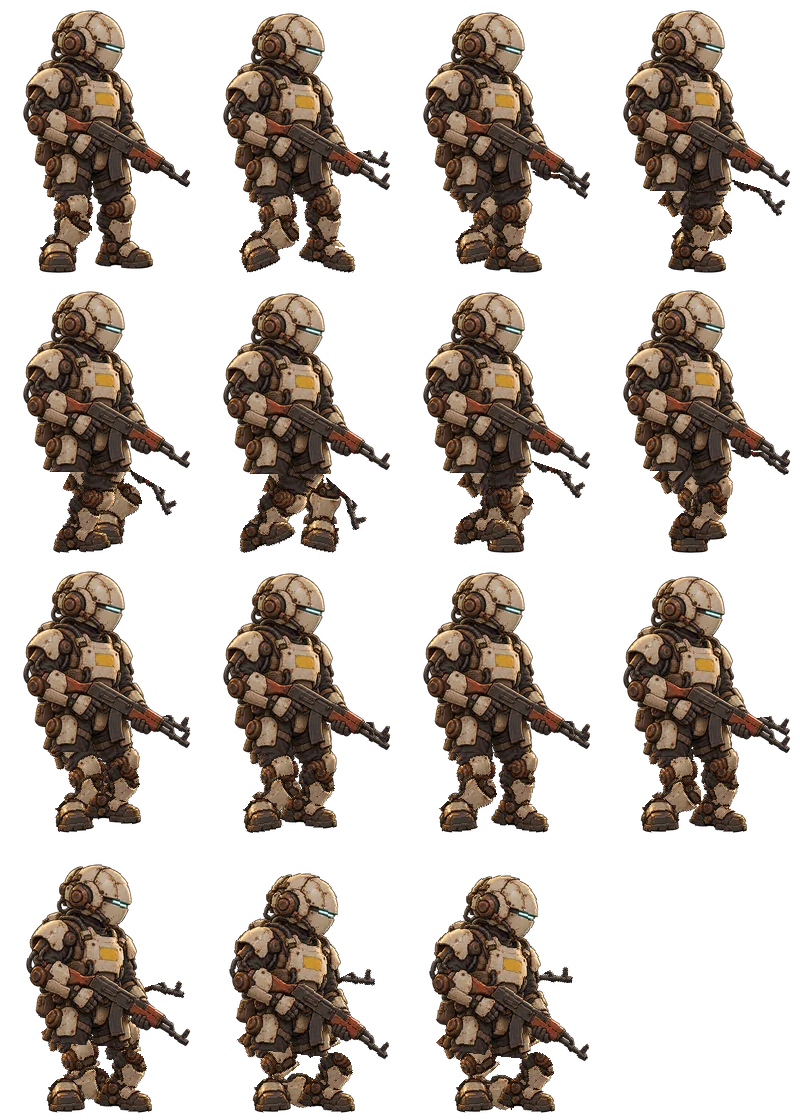
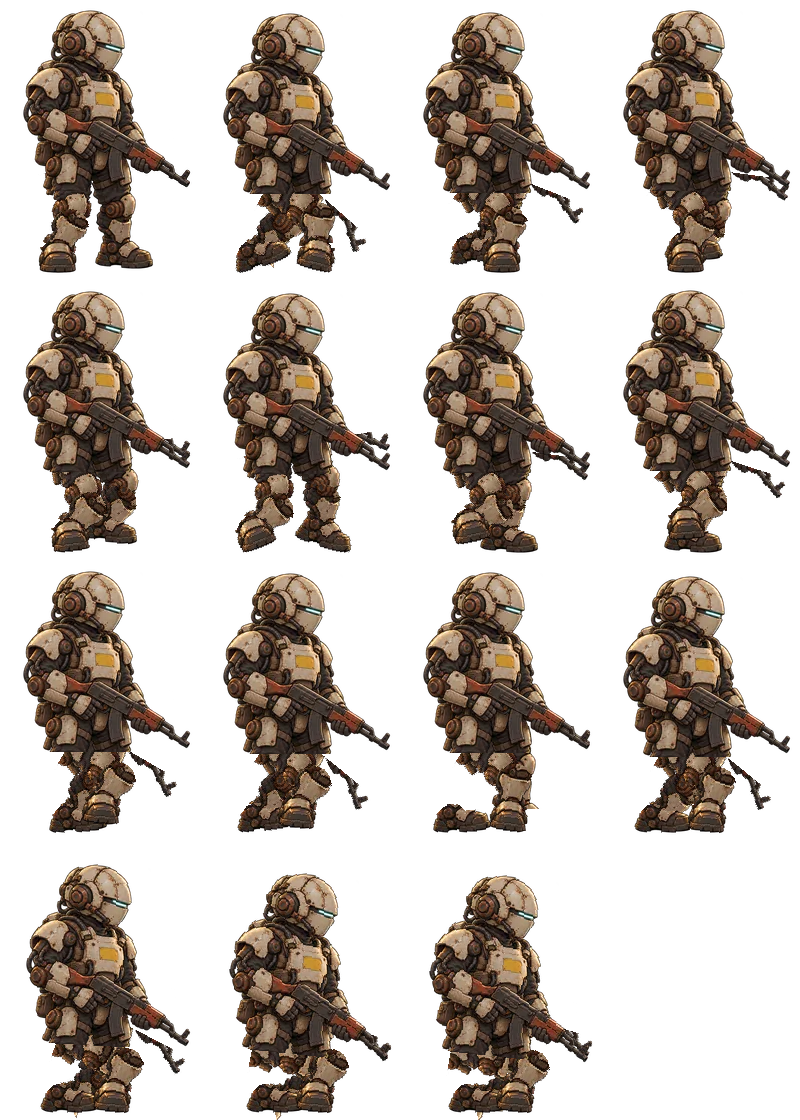
ABYSS DIVE v1.8.2: 歩行の前後レイヤーとストライド中心を原画に合わせ、歩行速度を310に、徒歩射撃と魚雷を長押し連射化
- 歩行の前後（遮蔽順）を原画の陰影から判定して入れ替え、ストライド中心を体の軸 x=180 へ移動（tools/suitrig.py）
- WALK_SPEED 250→310 論理px/s（歩調は時間ベースのまま、explore-rules.js）
- 徒歩スーツ射撃と潜航の通常魚雷をタップ1発・長押し連射に（ミサイル等は未変更）
- 版: sw-assets.js v11→v12 / gameVersion 1.8.1→1.8.2、?v= 更新
- テスト: node --test abyss-dive/tests/*.test.mjs 48件 全通過

diff --git a/abyss-dive/js/game.js b/abyss-dive/js/game.js
@@ -6,7 +6,7 @@
  * 停止・破棄までを自分で管理する（DOM の生成は呼び出し側の index.js が行う）。
  */
 
-import { createExplore } from './explore.js?v=9';
+import { createExplore } from './explore.js?v=10';
 
 export function createAbyssDive(opts) {
   'use strict';
@@ -274,6 +274,9 @@ export function createAbyssDive(opts) {
     wantMissile:false, wantDash:false, wantSonar:false, wantPause:false,
     wantDock:false,            // v1.6.0: 遺跡へ降りる／戻る（E・パッドA・画面ボタン）
     wantShoot:false,           // v1.8.0: 探索中の射撃（J/Z・画面ボタン。押した瞬間だけ）
+    fireMouseHeld:false,
+    fireHeld:false,            // v1.8.2: 魚雷の押しっぱなし連射（専用ボタン/左クリック/J/Z）
+    shootHeld:false,           // v1.8.2: 徒歩射撃の押しっぱなし連射（専用ボタン/J/Z）
     pad:{ x:0, action:false, actionEdge:false },   // v1.6.0: ゲームパッド
     stick:{ active:false, id:null, ox:0, oy:0, x:0, y:0, dx:0, dy:0, r:78 },
     ui:[],
@@ -306,12 +309,31 @@ export function createAbyssDive(opts) {
     else if (id === 'pause') Input.wantPause = true;
   }
 
+  function syncFireHold(){
+    const keys = Input.keys.KeyJ || Input.keys.KeyZ;
+    const touch = Object.values(Input.btnTouch).includes('fire');
+    Input.fireHeld = !G.exploreOn && G.state === 'play' && !!(keys || touch || Input.fireMouseHeld);
+    Input.shootHeld = G.exploreOn && !!(keys || touch);
+  }
+
+  function clearFireHold(){
+    Input.fireHeld = Input.shootHeld = Input.fireMouseHeld = false;
+    Input.fireQueued = Input.wantShoot = false;
+    delete Input.keys.KeyJ; delete Input.keys.KeyZ;
+    for (const id of Object.keys(Input.btnTouch)) if (Input.btnTouch[id] === 'fire') delete Input.btnTouch[id];
+  }
+
   /* --- keyboard ------------------------------------------------------- */
   on(window, 'keydown', e => {
-    if (e.repeat) { Input.keys[e.code] = true; return; }
+    if (e.repeat) return;
     Input.mode = 'mouse';
     Input.keys[e.code] = true;
-    if (e.code === 'KeyJ' || e.code === 'KeyZ') { if (G.exploreOn) Input.wantShoot = true; else Input.fireQueued = true; }
+    if (e.code === 'KeyJ' || e.code === 'KeyZ') {
+      if (G.exploreOn) Input.wantShoot = true;
+      else if (G.state === 'play') Input.fireQueued = true;
+      else delete Input.keys[e.code];
+      syncFireHold();
+    }
     if (e.code === 'KeyK' || e.code === 'KeyL') Input.wantMissile = true;
     if (e.code === 'Space') { Input.wantDash = true; e.preventDefault(); }
     if (e.code === 'ShiftLeft' || e.code === 'ShiftRight') Input.wantSonar = true;
@@ -320,8 +342,14 @@ export function createAbyssDive(opts) {
     if (e.code === 'KeyE' || e.code === 'Enter') Input.wantDock = true;   // v1.6.0: 降艇／調べる／戻る
     if (e.code === 'KeyR' && G.state === 'dead') startGame();
   });
-  on(window, 'keyup', e => { Input.keys[e.code] = false; });
-  on(window, 'blur', () => { Input.keys = {}; Input.stick.active = false; Input.stick.dx = Input.stick.dy = 0; });
+  on(window, 'keyup', e => {
+    Input.keys[e.code] = false;
+    /* v1.8.2: 射撃キーを離したらホールド解除（J/Z 両方を見て、片方だけ離しても続く） */
+    if (e.code === 'KeyJ' || e.code === 'KeyZ') {
+      syncFireHold();
+    }
+  });
+  on(window, 'blur', () => { Input.keys = {}; Input.stick.active = false; Input.stick.dx = Input.stick.dy = 0; clearFireHold(); });
 
   /* --- mouse ---------------------------------------------------------- */
   on(cvs, 'mousemove', e => {
@@ -337,11 +365,17 @@ export function createAbyssDive(opts) {
     Input.mx = p.x; Input.my = p.y;
     if (e.button === 0) {
       const b = btnAt(p.x, p.y);
-      if (b) { pressBtn(b.id); return; }
-      Input.fireQueued = true;      // セミオート: クリック1回につき魚雷1発
-      clickScreen();
+      if (G.state !== 'play') { clickScreen(); return; }
+      if (b) {
+        pressBtn(b.id);
+        if (b.id !== 'fire') return;
+      } else Input.fireQueued = true;
+      Input.fireMouseHeld = true;
+      syncFireHold();
     } else if (e.button === 2) { Input.wantMissile = true; }
   });
+  /* v1.8.2: キャンバス外で離してもホールドを解除する */
+  on(window, 'mouseup', e => { if (e.button === 0) { Input.fireMouseHeld = false; syncFireHold(); } });
   on(cvs, 'contextmenu', e => e.preventDefault());
 
   /* --- touch ---------------------------------------------------------- */
@@ -359,7 +393,13 @@ export function createAbyssDive(opts) {
         Input.btnTouch[t.identifier] = 'dock'; Input.wantDock = true; continue;
       }
       const b = btnAt(p.x, p.y);
-      if (b) { Input.btnTouch[t.identifier] = b.id; pressBtn(b.id); continue; }
+      if (b) {
+        Input.btnTouch[t.identifier] = b.id;
+        pressBtn(b.id);
+        /* v1.8.2: 「撃つ」ボタンは指を置いている間ホールド（他の指の解放では止めない） */
+        if (b.id === 'fire') syncFireHold();
+        continue;
+      }
       if (!Input.stick.active && p.x < VW * 0.66) {
         Input.stick.active = true; Input.stick.id = t.identifier;
         Input.stick.ox = p.x; Input.stick.oy = p.y;
@@ -394,7 +434,9 @@ export function createAbyssDive(opts) {
         Input.stick.active = false; Input.stick.id = null;
         Input.stick.dx = Input.stick.dy = 0;
       }
-      if (Input.btnTouch[t.identifier]) delete Input.btnTouch[t.identifier];
+      const id = Input.btnTouch[t.identifier];
+      if (id) delete Input.btnTouch[t.identifier];
+      if (id === 'fire') syncFireHold();
     }
     e.preventDefault();
   }
@@ -593,11 +635,11 @@ export function createAbyssDive(opts) {
     p.heat = clamp(p.heat + heatRate * dt, 0, 1);
     if (p.over && p.heat <= 0.18) p.over = false;
 
-    /* 魚雷はセミオート。押した瞬間の1発だけで、押しっぱなしでは連射しない */
-    if (Input.fireQueued) {
-      Input.fireQueued = false;
-      if (!p.over && p.fireCd <= 0) { p.fireCd = 0.075; fireTorpedo(p); }
-    }
+    /* 魚雷: 押した瞬間の1発＋押しっぱなし中は発射間隔ごとに連射（熱・過熱はそのまま効く）。
+       離した瞬間にホールドが切れるので、進行中の1発以外は新たに撃たない。 */
+    const wantFire = Input.fireQueued || Input.fireHeld;
+    Input.fireQueued = false;
+    if (wantFire && !p.over && p.fireCd <= 0) { p.fireCd = 0.075; fireTorpedo(p); }
     if (Input.wantMissile) { Input.wantMissile = false; fireMissile(p); }
 
     /* --- sonar --- */
@@ -3484,7 +3526,7 @@ export function createAbyssDive(opts) {
     G.score = 0; G.kills = 0; G.combo = 0; G.comboT = 0; G.bossKills = 0;
     G.genX = 0; G.nextBossAt = 8600; G.dist = 0; G.boss = null; G.spawnT = 1.0; G.genRuinX = 0;
     G.warnMsg = ''; G.warnT = 0; G.flash = 0; G.hurtFlash = 0; G.shake = 0; G.deathT = 0; G.inkT = 0;
-    Input.fireQueued = false;
+    clearFireHold();
     Input.wantMissile = Input.wantDash = Input.wantSonar = false;
     Input.stick.active = false; Input.stick.dx = Input.stick.dy = 0;
     /* v1.6.0: 探索の進捗もリセット（新しい潜航で遺物はまた未調査に戻る） */
@@ -3516,7 +3558,7 @@ export function createAbyssDive(opts) {
 
     if (Input.wantPause) {
       Input.wantPause = false;
-      if (G.state === 'play') G.state = 'pause';
+      if (G.state === 'play') { G.state = 'pause'; clearFireHold(); }
       else if (G.state === 'pause') G.state = 'play';
     }
 
@@ -3552,7 +3594,7 @@ export function createAbyssDive(opts) {
   function clearInputLatch(){
     Input.fireQueued = false;
     Input.wantMissile = Input.wantDash = Input.wantSonar = Input.wantPause = Input.wantDock = false;
-    Input.wantShoot = false;
+    clearFireHold();
     Input.stick.active = false; Input.stick.dx = 0; Input.stick.dy = 0;
     if (Input.pad) Input.pad.actionEdge = false;
   }

diff --git a/abyss-dive/js/explore.js b/abyss-dive/js/explore.js
@@ -11,13 +11,17 @@
  *   歩き出し・停止・遺物を調べる姿勢変化を追加し、J/Z・専用ボタンで
  *   「構え→発射→短い反動」の射撃（実際に弾＝曳光が出る）を足した。
  *   上半身は射撃ポーズを重ねるだけで、脚の接地・移動は止めない。
+ * v1.8.2:
+ *   歩く速さを 250→310 論理px/s（歩調は時間ベースのまま）。徒歩射撃はタップ=1発、
+ *   「撃つ」ボタン／J・Z を押し続けると既存の射撃サイクル完了ごとに連射する
+ *   （指IDごとに保持。離すと進行中の1発以外は撃たない）。
  * v1.8.1:
  *   歩行の位相は「歩いている時間」で進む（explore-rules 側。移動速度・距離は使わない）。
  *   脚の接地はアトラスのまま（接地中はブーツ底が水平）。このファイルの描画は変えていない。
  *
  * 座標は潜航と同じ 1280x720 論理解像度。walk のルールは explore-rules.js。
  */
-import { EXPLORE_WORLD as W, createExploreState, stepExplore, animView, firePhase } from './explore-rules.js?v=10';
+import { EXPLORE_WORLD as W, createExploreState, stepExplore, animView, firePhase } from './explore-rules.js?v=11';
 
 const TAU = Math.PI * 2;
 const clamp = (v, a, b) => (v < a ? a : v > b ? b : v);
@@ -155,7 +159,7 @@ export function createExplore(opts){
     const shoot = !!Input.wantShoot;
     Input.wantShoot = false;
 
-    const ev = stepExplore(st, { move, action, shoot }, dt);
+    const ev = stepExplore(st, { move, action, shoot, shootHold: !!Input.shootHeld }, dt);
     if (ev.survey !== null) onSurvey(ev.survey);
     if (ev.return) onReturn();
     if (ev.shoot) spawnShot();
@@ -605,8 +609,8 @@ export function createExplore(opts){
     ctx.fillStyle = 'rgba(175,220,230,0.82)';
     ctx.font = '14px "Yu Gothic UI","Hiragino Sans",sans-serif';
     ctx.fillText(Input.mode === 'touch'
-      ? '左をドラッグで移動 ／ 右下のボタンで撃つ・調べる・戻る'
-      : 'A・D ／ ←→ で移動    J・Z で撃つ    E で調べる・戻る   （パッド: スティック + A）', VW - 26, 62);
+      ? '左をドラッグで移動 ／ 右下のボタンで撃つ（長押しで連射）・調べる・戻る'
+      : 'A・D ／ ←→ で移動    J・Z で撃つ（長押しで連射）    E で調べる・戻る   （パッド: スティック + A）', VW - 26, 62);
 
     /* 対象プロンプト */
     if (st.near === 'relic'){
@@ -797,7 +801,8 @@ export function createExplore(opts){
     for (const touch of e.changedTouches){
       const p = toLogical(touch.clientX, touch.clientY);
       if (d2(p.x, p.y, f.x, f.y) < (f.r + 18) * (f.r + 18)){
-        Input.wantShoot = true;         // 1 タップ 1 発（押した瞬間だけ）
+        Input.wantShoot = true;         // 1 タップ 1 発（押した瞬間）
+        Input.shootHeld = true;         // v1.8.2: 指を置いている間はサイクルごとに連射
         Input.btnTouch[touch.identifier] = f.id;
         continue;
       }

diff --git a/abyss-dive/js/explore-rules.js b/abyss-dive/js/explore-rules.js
@@ -20,7 +20,7 @@ export const EXPLORE_WORLD = Object.freeze({
   GROUND_Y: 566,       // 床のライン。キャラの足元はここに固定する
   MIN_X: 130,          // 歩ける左端
   MAX_X: 2470,         // 歩ける右端
-  WALK_SPEED: 250,     // px/s（スティックはアナログで減速。歩調アニメとは連動しない）
+  WALK_SPEED: 310,     // px/s（v1.8.2: 250→310。340以上は将来の改造の余地。スティックはアナログで減速。歩調アニメとは連動しない）
   INTERACT_RANGE: 96,  // これ以内で「調べる／戻る」が有効
   SPAWN_X: 430,        // 降りた直後の立ち位置（入口のすぐ内側）
   EXIT_X: 250,         // 潜航へ戻るハッチ＝探索入口と同じ場所
@@ -116,10 +116,11 @@ export function stepExplore(st, input, dt, world = EXPLORE_WORLD){
   const ev = { survey: null, return: false, blocked: null, moved: false, shoot: false };
   const move = clamp(Number(input && input.move) || 0, -1, 1);
 
-  /* --- 射撃: 移動と同時に入力できる。1 押下 1 発（発射アニメ中は受け付けない） --- */
+  /* --- 射撃: 移動と同時に入力できる。タップ=1発。ホールド中は射撃サイクル完了ごとに連射 --- */
   st.fireT = Math.max(0, st.fireT - dt);
   if (st.fireT <= 0) st.fireArmed = true;
-  if (input && input.shoot && st.fireArmed){
+  const wantFire = !!(input && (input.shoot || input.shootHold));
+  if (wantFire && st.fireArmed){
     st.fireArmed = false;
     st.fireT = world.FIRE_T;
     ev.shoot = true;

diff --git a/abyss-dive/sw-assets.js b/abyss-dive/sw-assets.js
@@ -1,8 +1,8 @@
 // ABYSS DIVE — 深淵潜航 の Service Worker 用アセット一覧
 self.GAME_ASSETS = self.GAME_ASSETS || {};
 self.GAME_ASSETS['abyss-dive'] = {
-  version: 'v11',
-  gameVersion: '1.8.1',
+  version: 'v12',
+  gameVersion: '1.8.2',
   files: [
     'css/abyss-dive.css',
     'js/index.js',

diff --git a/abyss-dive/js/index.js b/abyss-dive/js/index.js
@@ -5,7 +5,7 @@
  */
 import { loadCss } from '../../common/js/load-css.js';
 import { storage } from '../../common/js/storage.js';
-import { createAbyssDive } from './game.js?v=11';
+import { createAbyssDive } from './game.js?v=12';
 
 const GAME_ID = 'abyss-dive';
 

diff --git a/abyss-dive/docs/CURRENT_WORK.md b/abyss-dive/docs/CURRENT_WORK.md
@@ -1,6 +1,17 @@
 # ABYSS DIVE — 現在地
 
-最終更新: 2026-11-22 / v1.8.1（`sw-assets.js` の `version: v11`）
+最終更新: 2026-11-22 / v1.8.2（`sw-assets.js` の `version: v12`）
+
+## v1.8.2 の確認状況
+- **歩行の前後（遮蔽順）を原画に合わせた**。手前の脚＝画像**左**（x<186）／奥の脚＝画像**右**と判定し直し（原画 `suit_idle` の陰影: 奥の脚が暗く、手前の脚と接する内側が最も暗い）、`tools/suitrig.py` の `leg_x` と `KNEE`/`ANKLE` を入れ替えた。`render_pose` は `far→near` の順に重ねるので**常に同じ手前の脚が上**（左右反転時も維持）。脚は足ごとに「もも→すね→ブーツ」を完全に合成してから奥→手前へ重ねる。
+- **ストライド中心を体の軸へ**。`CENTER_X` を 184 → **180**（原画の胴体/骨盤の縦軸。画像中央 192・ニュートラル時の足首座標 181.5 ではない）、股関節 `HIP` も 180。両足の歩幅はこの軸に対称に振れ、半周期で脚が交換される。腰の縦線・接地（足裏/踵）・各アンカー（idle/walk/survey/shoot）は動かしていない。
+- **歩く速さ 250 → 310 論理px/s**（`WALK_SPEED`）。歩調は**時間ベースのまま**（`WALK_CYCLE_T=0.90s`）、スティックのアナログ減速もそのまま。340 以上は将来の「改造」の余地（改造システムは未実装）。
+- **徒歩射撃はタップ=1発・長押し=連射**。`stepExplore` の `shootHold` で、専用「撃つ」ボタン／J・Z を押している間は**既存の射撃サイクル（0.34s）完了ごと**に連射。離すと進行中の1発以外は撃たない。
+- **潜航の通常魚雷も同じ**（専用ボタン・PC 左クリック・J・Z）。押している間は**既存の発射間隔（0.075s）ごと**、**熱・過熱・冷却はそのまま効く**。**ミサイルとその他の兵装は未変更**（押しっぱなしでも連発しない）。既存の「ボタン外の画面タップ＝1発」は維持。
+- 保持はタッチの**指IDごと**。`keyup`／`window mouseup`／`touchend・cancel`／`blur`／モード切替・ポーズ／`clearInputLatch`（降艇・帰還）／`startGame` で解除し持ち越さない。短押しはラッチで必ず1発（OS リピートに依存しない）。
+- `node --test abyss-dive/tests/*.test.mjs` は **48 件すべて通過**（assets 5 / combat 5 / explore 24 / weapons 14）。JS 5 本の構文チェック通過、`git diff --check` クリーン。アトラス再生成は決定的（md5 `3f7cb39d…`、IK 到達不能なし、最下点 y=360）。
+- ブラウザ（横持ち Chromium、ハブ経由）: カード **v1.8.2**。潜航で J 押しっぱなし→魚雷6発／離すと増えない。探索は実測 約310px/s、停止で遺物 **E→調査 1/2**、入口で **E→潜航復帰**、徒歩射撃は押下中 `firing`。
+- **残**: iPhone 17 Safari 実機、横持ちの連続クリップ。前後判定は原画の陰影が主な根拠（`suit_idle` は両脚がほぼ接して描かれオーバーラップが無い）。
 
 ## v1.8.1 の確認状況
 - **徒歩の歩調を移動から分離した**。v1.8.0 は位相を「動いた距離」で進めていたが、**「歩いている時間」**で進める（`WALK_CYCLE_T = 0.90s`／左右1周期）。**移動速度・移動距離・スティックの倒し込み量はアニメ位相に使わない**。`WALK_SPEED` は 140 → **250** 論理px/s に戻した（アナログ量は移動距離だけに反映）。→ 速さが変わっても歩みは一定のゆったりした歩調。
@@ -36,13 +47,13 @@
 |---|---|---|
 | 移動 | WASD / 矢印 | 画面左側をドラッグ（バーチャルスティック） |
 | 照準 | マウス（射出方向のみ） | 自動ロックオン（射出方向のみ） |
-| 魚雷 | 左クリック / J / Z（セミオート・1発ずつ） | 「撃つ」ボタン / 画面タップ（セミオート） |
+| 魚雷 | 左クリック / J / Z（セミオート・1発ずつ。**押しっぱなしで連射**） | 「撃つ」ボタン（**押しっぱなしで連射**）/ 画面タップ（1発） |
 | ミサイル | 右クリック / K / L | 「ミサイル」ボタン |
 | 緊急回避 | SPACE | 「回避」ボタン |
 | ソナー | SHIFT | 「ソナー」ボタン |
 | 一時停止 / 消音 | P・ESC / M | 右上の ❚❚ |
 | 遺跡探索（降りる／調べる／戻る） | E / Enter | 入口近くの「降艇」ボタン、探索中の右下ボタン |
-| **探索中の射撃** | **J / Z** | **探索中の右下「撃つ」ボタン**（「調べる／戻る」とは別） |
+| **探索中の射撃** | **J / Z**（**押しっぱなしで連射**） | **探索中の右下「撃つ」ボタン**（**押しっぱなしで連射**。「調べる／戻る」とは別） |
 | パッド | 左スティック／十字で移動、A で降りる・調べる（同時押し可） | — |
 
 ## 徒歩探索（v1.6.0 で追加 / v1.8.0 で歩行と射撃を増強）
@@ -52,7 +63,7 @@
 - 遺物（調査地点）は 2 つ: `x=1200`「崩れた祭壇」、`x=2010`「沈んだ石碑」。近づいて「調べる」で **1 度だけ** 報酬（1 つ +250 点）。2 度目は「調査済み」表示に変わり報酬は出ない。
 - 進捗（`relics` / `surveyed`）は**1 潜航のあいだ保持**される（入口を出入りしても消えない）。`startGame()` でリセット。
 - 帰還は入口と同じ場所（`EXIT_X=250`）。近づいて「戻る／潜航へ戻る」で潜航再開。**帰還時は予約入力をすべて捨てる**（`clearInputLatch`。射撃予約 `wantShoot` も含む）。
-- **歩行アニメ（v1.8.1）**: 8 コマ（`walk`）。位相は**歩いている時間**で進む（`WALK_CYCLE_T = 0.90s` で左右 1 周期。**移動速度・距離・スティック量は位相に使わない**）。脚は もも/すね/ブーツの 3 ピースで、**接地中はブーツ底が水平**（踵で着いて足裏に体重、蹴り出しでだけ踵上げ）。床より下へのはみ出しは無し。押しても壁で動けないときは足踏みせず停止へ。停止モーション → 待機、歩き始めは「歩き出し」2 コマ。
+- **歩行アニメ（v1.8.1 / v1.8.2）**: 8 コマ（`walk`）。位相は**歩いている時間**で進む（`WALK_CYCLE_T = 0.90s` で左右 1 周期。**移動速度・距離・スティック量は位相に使わない**）。脚は もも/すね/ブーツの 3 ピースで、**接地中はブーツ底が水平**（踵で着いて足裏に体重、蹴り出しでだけ踵上げ）。床より下へのはみ出しは無し。押しても壁で動けないときは足踏みせず停止へ。停止モーション → 待機、歩き始めは「歩き出し」2 コマ。**前後は手前=画像左・奥=画像右で、常に同じ手前の脚が上**（左右反転時も維持）。**ストライド中心＝体の軸（`CENTER_X=180`）**で両足が対称に振れる（v1.8.2）。
 - **調査の姿勢変化**: 専用 4 コマ。非ループで、終わると待機へ。歩き出すとキャンセル。
 - **射撃**: 上半身に射撃ポーズを重ねる（脚は止めない）。曳光弾・火花は見た目のみ。
 
@@ -84,9 +95,10 @@
 | ボス出現 | 初回 距離8600、以降 +11000+1500×撃破数。交互に出現 |
 | 世界 | 深度0〜2600（表示は y/2.6 m）、難易度は距離でスケール |
 | 探索入口 | 潜航側 x=1450, y=430, 半径78 / 受理は距離 ≤ 124 |
-| 探索マップ | 全長2600 / 床 y=566 / **歩行 250/s（アナログで減速）** / インタラクト範囲96 |
-| **歩行アニメ** | **8コマ / 時間ベース（0.90s で左右1周期）/ ストライド 32 元絵px / 遊脚クリアランス 12 元絵px。移動速度・距離は位相に使わない** |
-| **脚リグ** | **もも／すね／ブーツの3ピース。股関節・膝の2ボーンIK＋足首の独立回転。接地中はブーツ底を水平に** |
+| 探索マップ | 全長2600 / 床 y=566 / **歩行 310/s（アナログで減速）** / インタラクト範囲96 |
+| **歩行アニメ** | **8コマ / 時間ベース（0.90s で左右1周期）/ ストライド 32 元絵px / 遊脚クリアランス 12 元絵px。移動速度・距離は位相に使わない。ストライド中心＝体の軸 CENTER_X=180（手前=画像左・奥=画像右）** |
+| **脚リグ** | **もも／すね／ブーツの3ピース。股関節・膝の2ボーンIK＋足首の独立回転。接地中はブーツ底を水平に。奥→手前の重ね順（手前が常に上）** |
+| **ホールド射撃** | **徒歩射撃＝既存サイクル 0.34s ごと / 通常魚雷＝既存間隔 0.075s ごと（熱・過熱はそのまま）。ミサイルは非連発。タップは1発** |
 | **歩き出し / 停止 / 調査 / 射撃** | **0.12s / 0.16s / 0.95s(4コマ・非ループ) / 0.34s(構え0.09+発射0.10+反動)** |
 | ボスの当たり判定 | **頭＝描いた頭に沿った円（leviathan r≈92〜116 / squid r≈32〜100）＋胴＝背骨に沿った円（描画と同じ式）。巨大な透明円は使わない** |
 | 巨大イカの触腕 | **描いた長い触腕（クラブ付き2本）と同じ式・太さ（本線12 / 先端26）。攻撃中（'whip'）だけダメージ** |
@@ -114,6 +126,7 @@ abyss-dive/
 ## 探索者の絵の作り方（v1.8.1）
 - 元絵は `アセット倉庫 bot-commander/assets/suit` の `suit_idle` / `suit_shoot`（384×384、足元 y=360）。
 - `tools/gen_suit_walk.py`（内部で `tools/suitrig.py`）が、上半身をマスクで切り出し、脚を**「もも」「すね」「ブーツ」の3ピース**に分けて 2 ボーン IK ＋**足首の独立回転**で 8 コマ ＋ 歩き出し2＋調査4 を作り、`assets/suit_walk.webp` を書き出す。接地中はブーツ底を水平にし、蹴り出しでだけ踵を上げる。ブーツは細い所 y=334 で切る（すねが床下へはみ出さない）。
+- **前後と軸（v1.8.2）**: `XSPLIT=186` で左右を切り、**手前(near)=画像左（x<186）／奥(far)=画像右**。`render_pose` が `far→near` の順に重ねるので常に手前の脚が上（左右反転時も維持）。**ストライド中心 `CENTER_X=180`＝胴体/骨盤の縦軸**（股関節 `HIP` も 180）。両足はこの軸に対称に振れる。画像中央 192・ニュートラル時の足首座標 181.5・184（旧）は使わない。接地する足首の高さ（床 y=360）と踵/足裏の接地は原画のまま。
 - 再現: `cd abyss-dive && python tools/gen_suit_walk.py`。同条件で再生成すると md5 一致。倉庫の場所は環境変数 `SUIT_SRC` で変更可。
 - コマ順（アトラス）: 0=待機 / 1..8=歩行 / 9,10=歩き出し / 11..14=調査。セル 200×280、アンカーは元絵 (192,363) = セル内 (96,275)。
 
@@ -139,7 +152,8 @@ abyss-dive/
 - **探索中の射撃は `Input.wantShoot`**（v1.8.0）。`explore.update()` が読んで消費し、`clearInputLatch()` が降艇・帰還で必ず捨てる。keydown は `G.exploreOn` で `wantShoot` と `fireQueued` を切り替えるので、**どちらのモードでも「撃つ」キーが潜航の魚雷を誤発射しない**。
 - **撃破した敵は `cull()` で描画前に取り除く**。`update()` の冒頭で必ず呼ぶこと。
 - **スマホのボタン座標は `buildUI()`（潜航）と `explore.js` の `actionButton()` / `fireButton()`（探索）**。探索の「撃つ」は `(VW-120, VH-286)`、「調べる／戻る」は `(VW-140, VH-140)` で非重複。増やすときは左66%（移動スティック）と HUD に重ならないか確認。
-- **探索の歩行は時間ベース**（v1.8.1）。`explore-rules.js` の `stepExplore` が `dt / WALK_CYCLE_T` で位相を進める。**移動速度・移動距離・スティック量を位相に混ぜないこと**（v1.8.0 の距離ベースに戻すと、速さで歩調が変わってしまう）。接地足が滑るのは承知の上（歩調の安定を優先）。歩幅・踵上げ量は `tools/gen_suit_walk.py`、脚の長さ・足首位置は `tools/suitrig.py`。
+- **探索の歩行は時間ベース**（v1.8.1）。`explore-rules.js` の `stepExplore` が `dt / WALK_CYCLE_T` で位相を進める。**移動速度・移動距離・スティック量を位相に混ぜないこと**（v1.8.0 の距離ベースに戻すと、速さで歩調が変わってしまう）。接地足が滑るのは承知の上（歩調の安定を優先）。歩幅・踵上げ量は `tools/gen_suit_walk.py`、脚の長さ・足首位置・前後（near=左/far=右）・ストライド中心（CENTER_X=180）は `tools/suitrig.py`。**手前/奥を入れ替えないこと**（入れ替えると交差が逆になる）。
+- **ホールド射撃（v1.8.2）**。`Input.fireHeld`（潜航の魚雷）と `Input.shootHeld`（徒歩射撃）が押しっぱなしの保持。**短押しの1発はラッチ（`fireQueued` / `wantShoot`）側**で担保し、ホールドは既存の発射間隔・射撃サイクル・熱/過熱をそのまま使う（間隔や熱を無視する実装にしない）。タッチは押した指ID（`btnTouch[id]==='fire'`）だけが release で解除する（他の指の解放で止めない）。**ミサイルはエッジ（`wantMissile`）のまま**押しっぱなしでも連発しない。解除は `keyup`／`window mouseup`／`touchend・cancel`／`blur`／ポーズ／`clearInputLatch`／`startGame` に漏れなく入れる。
 - **ボスの当たり判定はシルエット寄り**（v1.8.1）。`enemyHit` のボス分岐は頭の円（`BOSS_HEAD`）＋背骨の円。**頭の1点を中心にした巨大な円を戻さないこと**（何も描いていない空間に当たる）。`BOSS_HEAD` を変えるときは `drawLeviathanHead` / イカの頭ベジエ（ローカル座標・進行方向の逆側）と突き合わせる。イカの触腕は `squidWhipTouch`（`drawSquid` の長い触腕と同じ式・太さ）。ロック表示（`drawHUD` の target reticle）は**頭そばの小さな淡色ブラケット**で、判定とは別物。
 - **`destroy()` が AudioContext を閉じている**。閉じないと起動のたびに増えて枯渇する。
 - ハブ側で読み込むのは `js/index.js` のみ。`game.js` は `?v=` を index.js 内で管理。

diff --git a/abyss-dive/README.md b/abyss-dive/README.md
@@ -14,14 +14,14 @@
 |---|---|---|
 | 移動 | WASD / 矢印 | 画面左側をドラッグ（バーチャルスティック） |
 | 照準 | マウス | 自動ロックオン |
-| 魚雷 | 左クリック / J（セミオート・1発ずつ） | 「撃つ」ボタン / 画面タップ（セミオート） |
+| 魚雷 | 左クリック / J（**押しっぱなしで連射**） | 「撃つ」ボタン（**押しっぱなしで連射**）/ 画面タップ（1発） |
 | ミサイル | 右クリック / K | 右の「ミサイル」ボタン |
 | 緊急回避 | SPACE | 右の「回避」ボタン |
 | ソナー | SHIFT | 右の「ソナー」ボタン |
 | 一時停止 | P / ESC | 右上の ❚❚ |
 | 消音 | M | — |
 | 遺跡探索（降りる／調べる／戻る） | E / Enter（入口の近く） | 入口近くの「降艇」ボタン、探索中の右下ボタン |
-| 探索中の射撃 | J / Z（押した瞬間に1発） | 探索中の右下「撃つ」ボタン（1タップ1発） |
+| 探索中の射撃 | J / Z（**押しっぱなしで連射**） | 探索中の右下「撃つ」ボタン（**押しっぱなしで連射**） |
 | パッド | 左スティック／十字キーで移動、A で降りる・調べる（同時押しOK） | — |
 
 ## 中身
@@ -34,7 +34,7 @@
 - **緊急回避**: 無敵時間つきの加速。
 - **深度**: 表層 / 中深層 / 漸深層 / 深海層 / 超深海 と景観が変わる。深いほど真っ暗。
 - **沈んだ古代都市**: 崩れた柱・アーチ・神殿が背景を流れる。
-- **徒歩探索（遺跡）**: 序盤 x=1450 の浅い位置に光る「沈没都市 遺跡エアロック」がある。入口の近くで `E`／パッドA／「降艇」ボタンで潜水艇から降り、装甲の探索者で遺跡を歩く。**歩行は8コマ**（接地→踏み込み→すれ違い→蹴り出し × 左右。アセット倉庫 `bot-commander/assets/suit` の待機・射撃から `tools/gen_suit_walk.py` で生成）。歩調は**歩いている時間**で進み（0.9秒で左右1周期）、**移動速度や距離とは連動しない**ので、速く歩いても歩みは一定。脚は もも/すね/ブーツの3ピースで、**接地中はブーツ底が床に水平**（踵で着いて足裏に体重、蹴り出しでだけ踵上げ）。壁に押し付けても足踏みせず停止する。歩き出し・停止の姿勢があり、奥の2つの遺物を「調べる」と一度だけ報酬（+250点）。**`J`／`Z`／右下の「撃つ」ボタンでその場で撃てる**（構え→発射→短い反動。閃光と曳光弾が出て、歩きながらでも撃てる。1押下1発で連射しない）。同じ入口に戻って「潜航へ戻る」で潜航を再開する（徒歩中は潜航のシミュレーションが止まり、周囲の敵の時間も止まる）。
+- **徒歩探索（遺跡）**: 序盤 x=1450 の浅い位置に光る「沈没都市 遺跡エアロック」がある。入口の近くで `E`／パッドA／「降艇」ボタンで潜水艇から降り、装甲の探索者で遺跡を歩く。**歩行は8コマ**（接地→踏み込み→すれ違い→蹴り出し × 左右。アセット倉庫 `bot-commander/assets/suit` の待機・射撃から `tools/gen_suit_walk.py` で生成）。歩調は**歩いている時間**で進み（0.9秒で左右1周期）、**移動速度や距離とは連動しない**ので、速く歩いても歩みは一定（歩く速さは v1.8.2 で **310 論理px/s**）。脚は もも/すね/ブーツの3ピースで、**接地中はブーツ底が床に水平**（踵で着いて足裏に体重、蹴り出しでだけ踵上げ）。**手前の脚＝画像左・奥＝画像右で、常に同じ手前の脚が上**（左右反転でも維持）。**ストライド中心は体の軸（`CENTER_X=180`）**。壁に押し付けても足踏みせず停止する。歩き出し・停止の姿勢があり、奥の2つの遺物を「調べる」と一度だけ報酬（+250点）。**`J`／`Z`／右下の「撃つ」ボタンでその場で撃てる**（構え→発射→短い反動。閃光と曳光弾が出て、歩きながらでも撃てる。**タップ=1発、押しっぱなしでサイクルごとに連射**）。同じ入口に戻って「潜航へ戻る」で潜航を再開する（徒歩中は潜航のシミュレーションが止まり、周囲の敵の時間も止まる）。
 - **探索者の絵**: `tools/gen_suit_walk.py`（+ `tools/suitrig.py`）で、上半身は元絵のまま、脚を「もも／すね／ブーツ」の3ピースに切り、2ボーンIK＋足首の独立回転で 8 コマ＋歩き出し＋調査 を作り `assets/suit_walk.webp` に出力する。同条件で再生成すると一致する。
 - **遠景の魚**: 青灰色の小魚の群れとエイが泳ぐ。敵魚には背棘、牙、発光する目がある。
 - **ボス**: リヴァイアサン（巨大魚）とコロッサル・スクイッド（巨大イカ）が交互に出現。倒すごとに強化。
@@ -57,6 +57,7 @@
 
 ## 版の履歴
 
+- 1.8.2 — 歩行の**前後（遮蔽順）を原画に合わせ**、手前の脚＝画像左・奥＝画像右に（常に同じ手前の脚が上・左右反転でも維持）。**ストライド中心を体の軸（`CENTER_X=180`）へ**移し、両足の歩幅を対称に。歩く速さを 250→**310** 論理px/s（歩調は時間ベースのまま。340 以上は将来の改造の余地）。徒歩射撃と潜航の通常魚雷を**タップ1発・押しっぱなしで連射**に（専用ボタン／PC 左クリック／J・Z。既存の発射間隔と熱・過熱はそのまま。ミサイルは非連発）。保持はタッチの指IDごと、離すと進行中の1発以外は撃たない。
 - 1.8.1 — 徒歩の歩調を移動から分離（位相を**歩いている時間**で進める。0.9秒で左右1周期。移動速度・距離は使わない）。移動速度を 250 px/s に戻し、**接地中はブーツ底が床に水平**（踵で着いて足裏に体重、蹴り出しでだけ踵上げ）になるよう脚を もも/すね/ブーツの3ピース＋足首回転に組み直した。壁で足踏みしない。ボスの当たり判定から**巨大な透明円を外し**、頭・胴の実シルエット寄りに。ロック表示を頭そばの小さなブラケットに変更。巨大イカの危険な触腕を描画と同じ座標・太さに合わせ、攻撃中だけにした。
 - 1.8.0 — 遺跡探索の徒歩を 8 コマの実フレーム化（接地→踏み込み→すれ違い→蹴り出し × 左右）。上半身は元絵のまま、脚を2ボーンIKで組んだ。コマ送りを移動距離ベースにしたのでアナログ低速でも接地足が滑らない（速度は 250→140）。歩き出し・停止の姿勢、遺物を調べる短い非ループ姿勢、`J`/`Z`・専用ボタンでの徒歩射撃（構え→発射→反動、閃光と曳光、1押下1発、移動と同時可）を追加。素材は `tools/gen_suit_walk.py` で再現生成。
 - 1.7.0 — ミサイルの着弾を爽快に強化。白熱した小さい核＋橙の火花＋水中の膨張衝撃波・泡、短い揺れと重い低音（画面全体を塗る長いフラッシュは使わない）。爆心から周囲の普通の敵を距離減衰つきで放射状に吹き飛ばし、地形着弾でも周囲効果は一貫。ボスと海底固定の戦車ヤドカリはダメージのみ。魚雷に前方近傍だけの弱い誘導を追加。

diff --git a/abyss-dive/docs/WORK_REPORT.md b/abyss-dive/docs/WORK_REPORT.md
@@ -4,6 +4,36 @@
 
 ---
 
+## 2026-11-22 / v1.8.2 — 歩行の前後レイヤーとストライド中心を原画に合わせる／歩行を 310 に／徒歩射撃と魚雷の押しっぱなし連射
+
+### やったこと
+- **歩行の前後（遮蔽順）を原画に合わせて入れ替えた**。`tools/suitrig.py` は手前の脚を画像**右**（x>186）としていたが、原画 `suit_idle` の腰まわりの陰影（奥の脚＝右側が暗く、手前の脚と接する内側が最も暗い）から、**手前の脚は画像左（x<186）・奥の脚は画像右**と判定。`leg_x` と `KNEE`/`ANKLE` を入れ替え、`render_pose` の `far→near` の重ね順はそのままなので**常に同じ手前の脚が上**に描かれる（左右反転時も維持）。脚は「もも/すね/ブーツ」を**足ごとに完全に合成してから**奥→手前へ重ねる（この順序は変更なし・確認）。
+- **ストライド中心を体の軸へ移した**。`CENTER_X` を 184（画像中央 192 でもニュートラル時の足首座標 181.5 でもない）から **180（原画の胴体/骨盤の縦軸。頭・胴・骨盤の重心 x≈179.5）** にし、股関節 `HIP` も 180 に合わせた。両足の歩幅はこの軸に対称に振れ、半周期で脚が交換される。腰の縦線・接地（足裏/踵）・アンカー（idle/walk/survey/shoot の基準点）は動かしていない。
+- **歩く速さを 250 → 310 論理px/s**（`explore-rules.js` の `WALK_SPEED`）。歩調は**時間ベースのまま**（`WALK_CYCLE_T=0.90s`）、スティックのアナログ減速もそのまま。340 以上は将来の「改造」の余地として空けておく（改造システムは未実装）。
+- **徒歩スーツ射撃をタップ=1発・長押し=連射にした**。`stepExplore` に `shootHold` を足し、撃つボタン/J/Z を押している間は**既存の射撃サイクル（0.34s）完了ごと**に発射。離すと進行中の1発以外は撃たない。
+- **潜航の通常魚雷も同じ**にした（専用「撃つ」ボタン・PC 左クリック・J/Z）。押している間は**既存の発射間隔（0.075s）ごと**に発射し、**熱・過熱・冷却はそのまま効く**（オーバーヒート中は撃てない）。**ミサイルとその他の兵装は未変更**（押しっぱなしでも連発しない）。
+- 入力の保持はタッチの**指IDごと**（`Input.btnTouch[id]==='fire'` の指だけが離すと解除。他の指の解放では止めない）。左スティックと併用可。`keyup`（J/Z 両方を見る）・`window mouseup`・`touchend/cancel`・`blur`・モード切替/ポーズ・`clearInputLatch`（降艇・帰還）・`startGame` でホールドを解除し、持ち越さない（短押しはラッチ `fireQueued`/`wantShoot` で必ず1発、OSリピートに依存しない）。
+- 版: `sw-assets.js` `v11 → v12` / `gameVersion 1.8.1 → 1.8.2`、`js/index.js` の `game.js?v=11 → ?v=12`、`js/game.js` の `explore.js?v=9 → ?v=10`、`js/explore.js` の `explore-rules.js?v=10 → ?v=11`。
+
+### なぜ
+- ユーザー指摘『奥足と手前の足の交差が逆』『ストライドの中心と体の軸がズレてる』に応えるため。原画の陰影から前後を判定し直し、ストライド中心を体の軸に合わせた。
+- 『足が遅い』『基礎速度は 250→310、340 以上は将来の改造に余地』に応えるため。
+- 『徒歩スーツ射撃をタップ1発・長押し中は連射』『魚雷も同じ（ミサイルはそのまま）』に応えるため。
+
+### 検証
+- `node --test abyss-dive/tests/*.test.mjs` → **48 件すべて通過**（assets 5 / combat 5 / explore 24 / weapons 14）。新規: 満倒し 310px/s・半倒し同歩調、徒歩射撃のタップ1発/ホールド連射/離して停止/移動併用、魚雷のタップ1発/ホールド連射/過熱で停止/ミサイル非連発。他のボタンを長押ししても魚雷は出ず、移動指や別の発射指を離しても残りの発射指で連射し、最後の発射指をキャンセルすると停止する。
+- `node --check` で JS 5 本 OK、`git diff --check` クリーン。
+- アトラス再生成: `python tools/gen_suit_walk.py` → **IK 到達不能なし**、全15コマで最下点 y=360、md5 `3f7cb39d0322982b486dcf8891b640b7`（同条件で一致・決定的）。`suit_shoot_upper.webp` は不変（md5 一致）。
+- 原画との一致: 前後入替／中心移動後の `idle` 再描画の差は 2525px（入替前の基準 2177px と同水準。腰の股関節帯 y264-278 と上半身は不変、足元の接地は原画のまま）。**まとめ画像** `scratch/abyss-suit-fix/cmp_walk_occlusion.png`（OLD/NEW/反転の交差フレームに赤＝体の軸・緑＝アンカー・橙＝接地のガイド線）。
+- ブラウザ（横持ち Chromium、ハブ経由）で実挙動を確認: ハブのカードが **v1.8.2**。潜航で**Jを押しっぱなし → 魚雷 6 発（約0.5s）、離すと 6 のまま**（新規発射なし）。探索で**歩行の速度実測 約310px/s**、停止状態で遺物（x=1200 付近）に **E → 調査姿勢（surveyed 1/2）**、入口（x≒240）に戻り停止して **E → 潜航へ復帰**（fireHeld/shootHeld が False に戻る）。徒歩射撃は J を押している間 `firing:'fire'`、離すと `recoil`（進行中の1発のみ）で、HUD に「長押しで連射」を表示。
+
+### 残したこと / つまずいた点
+- 奥行きのごく小さな透視差は**不要**だった（入れ替えと軸移動だけで交差と対称性が取れた）ため付けていない。
+- 前後判定は原画の陰影（奥＝暗い）と腰での重なりに基づく。`suit_idle` は両脚がほぼ接して描かれており（オーバーラップが無い）、続く `suit_walk_0/1` の交差コマは股関節帯を除外して初めて分離するため、判定は陰影が主な根拠。
+- iPhone 17 Safari 実機の確認はこれから。横持ちの連続クリップは未取得。
+
+---
+
 ## 2026-11-22 / v1.8.1 — 徒歩の歩調を移動から分離／ボスの当たり判定とロック表示を修正
 
 ### やったこと
